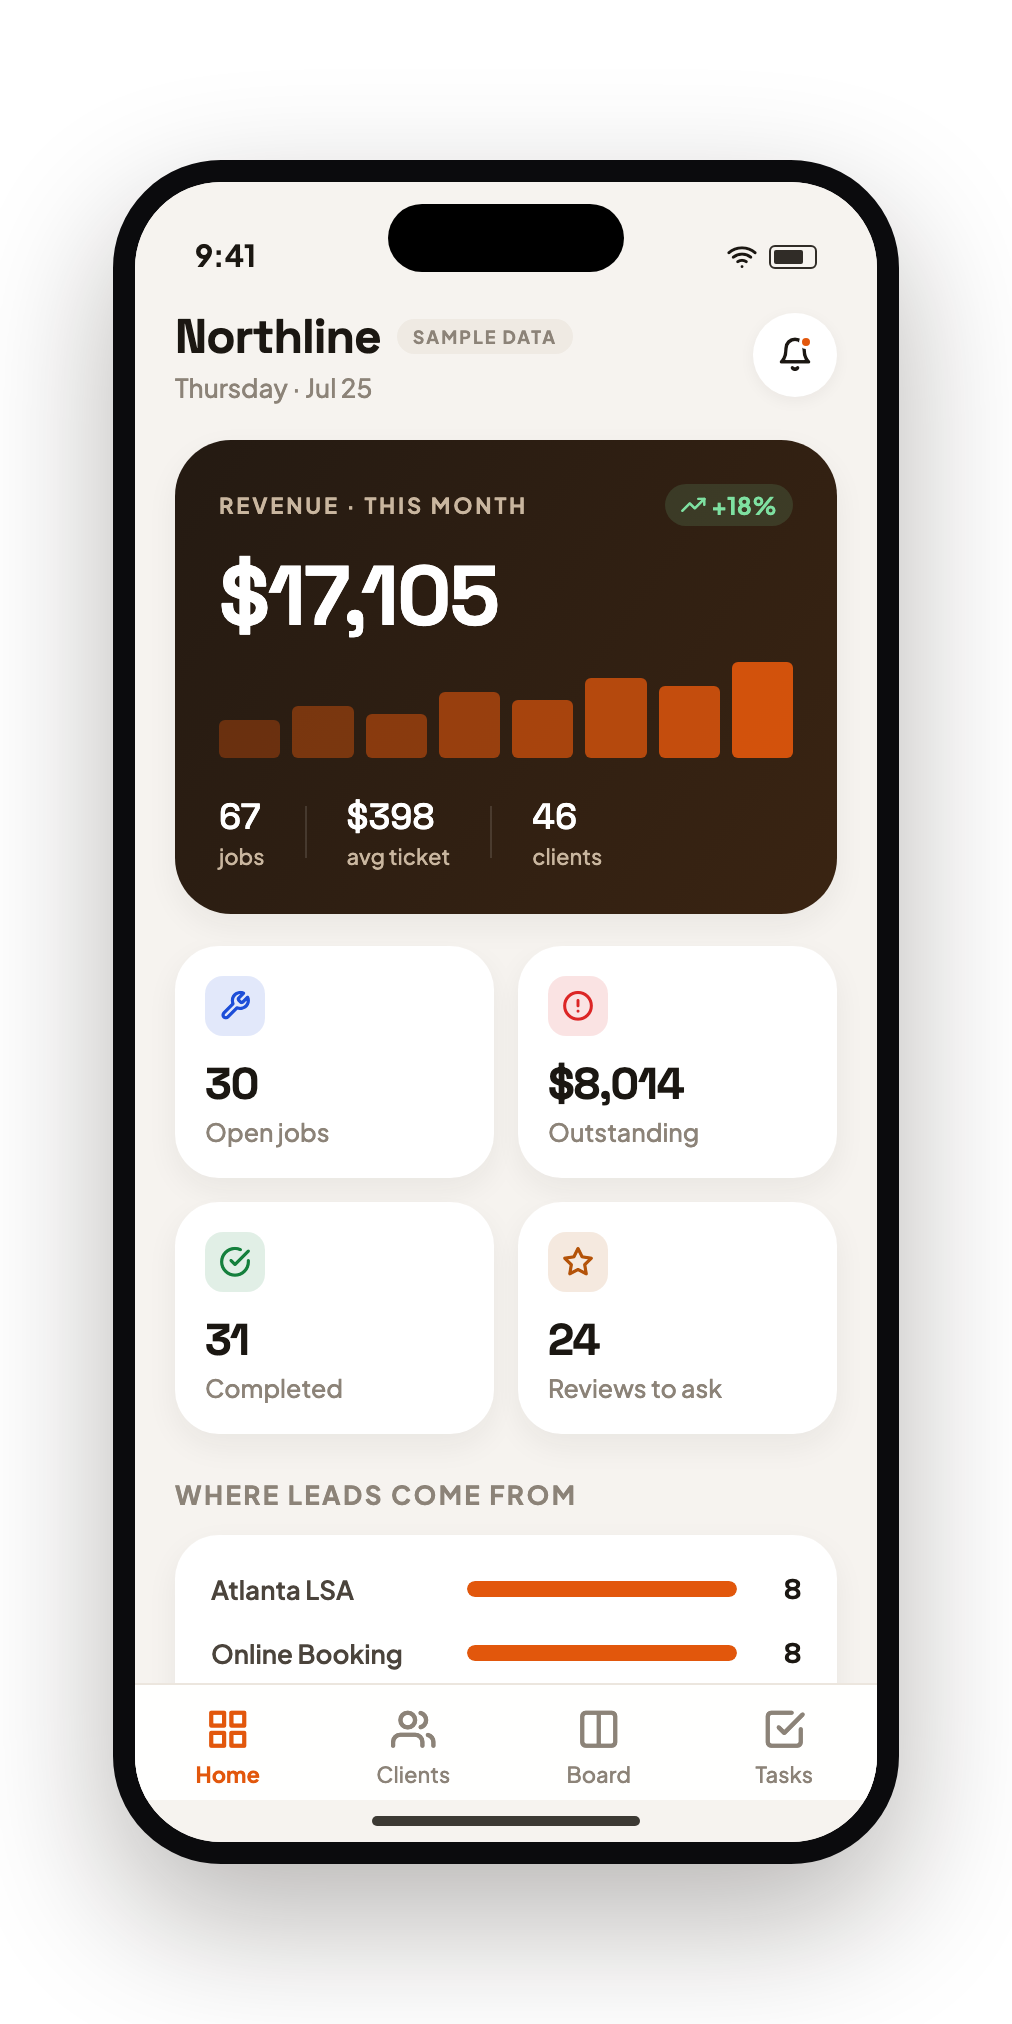
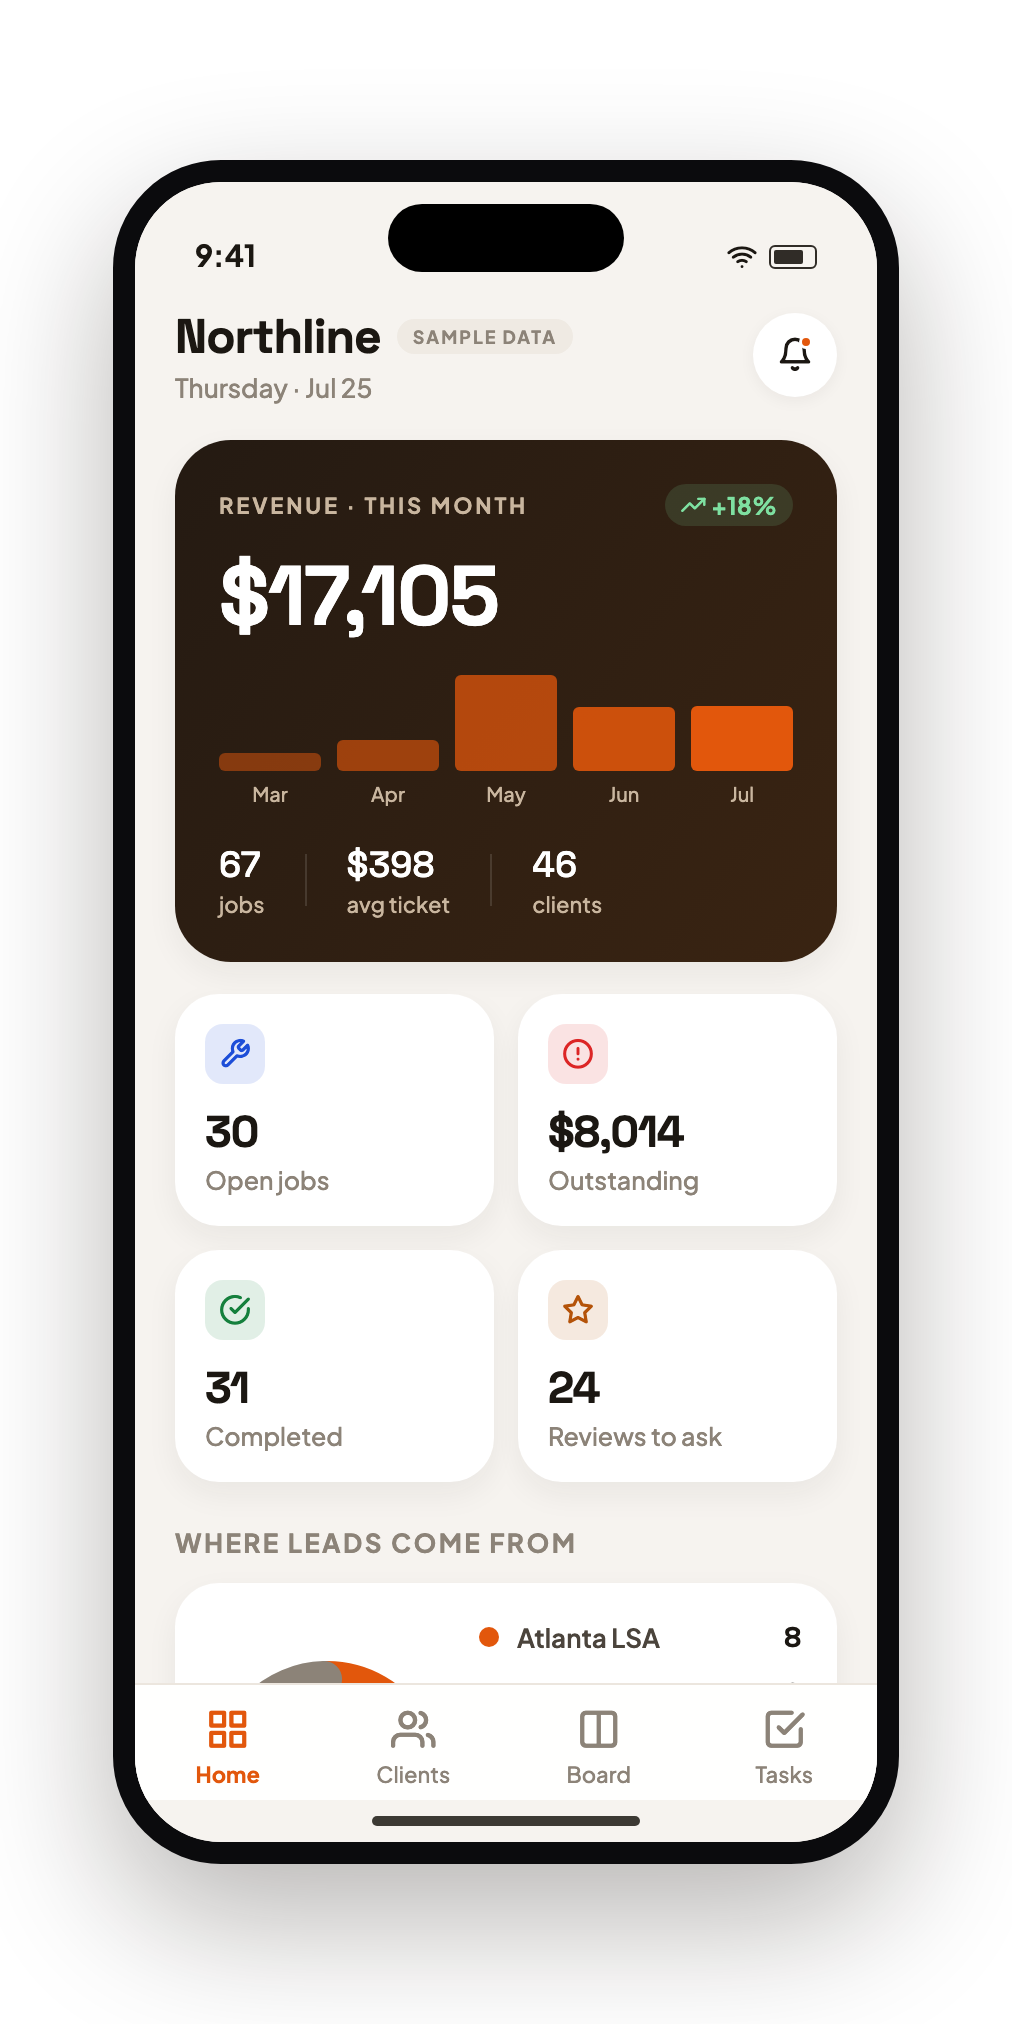
Feature #4a — real charts: data-driven monthly revenue bars + SVG lead-source donut (react-native-svg), revenueByMonth selector +3 tests (22 total)

Changed region(s): [[0.1532, 0.3113, 0.8271, 0.8404], [0.7658, 0.7782, 0.7964, 0.8404]]

diff --git a/client-hub/src/screens/Dashboard.tsx b/client-hub/src/screens/Dashboard.tsx
@@ -5,6 +5,10 @@ import { Feather } from '@expo/vector-icons';
 import { colors, font, radius, shadow, money } from '../theme';
 import { Card, SectionLabel } from '../ui';
 import { Seed, Task } from '../types';
+import { revenueByMonth } from '../selectors';
+import Donut from '../components/Donut';
+
+const LEAD_COLORS = ['#E2570C', '#1D4ED8', '#15803D', '#6D28D9', '#B45309', '#8C8378'];
 
 const taskMeta: Record<Task['type'], { icon: any; color: string; bg: string }> = {
   balance: { icon: 'dollar-sign', color: colors.danger, bg: colors.dangerSoft },
@@ -27,8 +31,18 @@ function Stat({ label, value, icon, tint }: { label: string; value: string; icon
 
 export default function Dashboard({ data, go, onOpenClient }: { data: Seed; go: (t: string) => void; onOpenClient: (id: string) => void }) {
   const { kpis, tasks } = data;
-  const maxLead = Math.max(...kpis.leadSources.map((l) => l[1]));
   const top = tasks.slice(0, 3);
+
+  const months = revenueByMonth(data.clients, 6);
+  const maxRev = Math.max(1, ...months.map((m) => m.value));
+
+  const leadTop = kpis.leadSources.slice(0, 5);
+  const leadOther = kpis.leadSources.slice(5).reduce((a, [, n]) => a + n, 0);
+  const totalLeads = kpis.leadSources.reduce((a, [, n]) => a + n, 0) || 1;
+  const donutData = [
+    ...leadTop.map(([, n], i) => ({ value: n, color: LEAD_COLORS[i] })),
+    ...(leadOther ? [{ value: leadOther, color: LEAD_COLORS[5] }] : []),
+  ];
 
   return (
     <ScrollView contentContainerStyle={styles.scroll} showsVerticalScrollIndicator={false}>
@@ -59,8 +73,11 @@ export default function Dashboard({ data, go, onOpenClient }: { data: Seed; go: 
         </View>
         <Text style={styles.heroValue}>{money(kpis.revenue)}</Text>
         <View style={styles.spark}>
-          {[38, 52, 44, 66, 58, 80, 72, 96].map((h, i) => (
-            <View key={i} style={[styles.sparkBar, { height: h * 0.5, opacity: 0.35 + i * 0.08 }]} />
+          {months.map((m, i) => (
+            <View key={i} style={styles.sparkCol}>
+              <View style={[styles.sparkBar, { height: 8 + (m.value / maxRev) * 40, opacity: 0.5 + (i / Math.max(1, months.length - 1)) * 0.5 }]} />
+              <Text style={styles.sparkLabel}>{m.label}</Text>
+            </View>
           ))}
         </View>
         <View style={styles.heroFoot}>
@@ -92,15 +109,26 @@ export default function Dashboard({ data, go, onOpenClient }: { data: Seed; go: 
       {/* Lead sources */}
       <SectionLabel>Where leads come from</SectionLabel>
       <Card style={styles.leadCard}>
-        {kpis.leadSources.slice(0, 5).map(([name, n], i) => (
-          <View key={name} style={[styles.leadRow, i > 0 && { marginTop: 14 }]}>
-            <Text style={styles.leadName} numberOfLines={1}>{name}</Text>
-            <View style={styles.leadTrack}>
-              <View style={[styles.leadFill, { width: `${(n / maxLead) * 100}%` }]} />
+        <Donut data={donutData} size={116} stroke={18}>
+          <Text style={styles.donutNum}>{totalLeads}</Text>
+          <Text style={styles.donutLbl}>leads</Text>
+        </Donut>
+        <View style={styles.legend}>
+          {leadTop.map(([name, n], i) => (
+            <View key={name} style={styles.legendRow}>
+              <View style={[styles.legendDot, { backgroundColor: LEAD_COLORS[i] }]} />
+              <Text style={styles.legendName} numberOfLines={1}>{name}</Text>
+              <Text style={styles.legendNum}>{n}</Text>
             </View>
-            <Text style={styles.leadNum}>{n}</Text>
-          </View>
-        ))}
+          ))}
+          {leadOther > 0 && (
+            <View style={styles.legendRow}>
+              <View style={[styles.legendDot, { backgroundColor: LEAD_COLORS[5] }]} />
+              <Text style={styles.legendName}>Other</Text>
+              <Text style={styles.legendNum}>{leadOther}</Text>
+            </View>
+          )}
+        </View>
       </Card>
 
       {/* Needs attention */}
@@ -148,8 +176,10 @@ const styles = StyleSheet.create({
   heroDelta: { flexDirection: 'row', alignItems: 'center', backgroundColor: 'rgba(126,224,161,0.14)', paddingHorizontal: 8, paddingVertical: 3, borderRadius: 999 },
   heroDeltaText: { fontFamily: font.bold, fontSize: 12, color: '#7EE0A1', marginLeft: 3 },
   heroValue: { fontFamily: font.display, fontSize: 42, color: '#FFF', marginTop: 8, letterSpacing: -1 },
-  spark: { flexDirection: 'row', alignItems: 'flex-end', gap: 6, height: 42, marginTop: 12 },
-  sparkBar: { flex: 1, backgroundColor: colors.accent, borderRadius: 3 },
+  spark: { flexDirection: 'row', alignItems: 'flex-end', gap: 8, height: 66, marginTop: 12 },
+  sparkCol: { flex: 1, alignItems: 'center', justifyContent: 'flex-end', gap: 5 },
+  sparkBar: { alignSelf: 'stretch', backgroundColor: colors.accent, borderRadius: 3 },
+  sparkLabel: { fontFamily: font.med, fontSize: 10, color: '#C9B69F' },
   heroFoot: { flexDirection: 'row', alignItems: 'center', marginTop: 18 },
   heroFootVal: { fontFamily: font.displayMed, fontSize: 18, color: '#FFF' },
   heroFootLbl: { fontFamily: font.med, fontSize: 11, color: '#C9B69F', marginTop: 1 },
@@ -161,12 +191,14 @@ const styles = StyleSheet.create({
   statValue: { fontFamily: font.display, fontSize: 22, color: colors.ink, letterSpacing: -0.5 },
   statLabel: { fontFamily: font.med, fontSize: 12.5, color: colors.muted, marginTop: 2 },
 
-  leadCard: { padding: 18, marginBottom: 22 },
-  leadRow: { flexDirection: 'row', alignItems: 'center' },
-  leadName: { fontFamily: font.semi, fontSize: 13, color: colors.inkSoft, width: 118 },
-  leadTrack: { flex: 1, height: 8, backgroundColor: colors.paperDeep, borderRadius: 4, marginHorizontal: 10, overflow: 'hidden' },
-  leadFill: { height: 8, backgroundColor: colors.accent, borderRadius: 4 },
-  leadNum: { fontFamily: font.display, fontSize: 14, color: colors.ink, width: 22, textAlign: 'right' },
+  leadCard: { padding: 18, marginBottom: 22, flexDirection: 'row', alignItems: 'center', gap: 18 },
+  donutNum: { fontFamily: font.display, fontSize: 22, color: colors.ink },
+  donutLbl: { fontFamily: font.med, fontSize: 11, color: colors.muted, marginTop: -2 },
+  legend: { flex: 1, gap: 10 },
+  legendRow: { flexDirection: 'row', alignItems: 'center' },
+  legendDot: { width: 10, height: 10, borderRadius: 5, marginRight: 9 },
+  legendName: { fontFamily: font.semi, fontSize: 13, color: colors.inkSoft, flex: 1 },
+  legendNum: { fontFamily: font.display, fontSize: 14, color: colors.ink, marginLeft: 8 },
 
   seeAll: { fontFamily: font.semi, fontSize: 13, color: colors.accent },
   taskRow: { flexDirection: 'row', alignItems: 'center', padding: 14, marginBottom: 10 },

diff --git a/client-hub/src/components/Donut.tsx b/client-hub/src/components/Donut.tsx
@@ -1,0 +1,58 @@
+import React from 'react';
+import { View } from 'react-native';
+import Svg, { Circle, G } from 'react-native-svg';
+
+export type DonutSlice = { value: number; color: string };
+
+/** Lightweight SVG donut chart. Segments are drawn as dash-offset arcs. */
+export default function Donut({
+  data,
+  size = 128,
+  stroke = 20,
+  children,
+}: {
+  data: DonutSlice[];
+  size?: number;
+  stroke?: number;
+  children?: React.ReactNode;
+}) {
+  const r = (size - stroke) / 2;
+  const c = 2 * Math.PI * r;
+  const total = data.reduce((a, d) => a + d.value, 0) || 1;
+  let acc = 0;
+
+  return (
+    <View style={{ width: size, height: size, alignItems: 'center', justifyContent: 'center' }}>
+      <Svg width={size} height={size}>
+        <G rotation={-90} origin={`${size / 2}, ${size / 2}`}>
+          {/* track */}
+          <Circle cx={size / 2} cy={size / 2} r={r} stroke="#00000010" strokeWidth={stroke} fill="none" />
+          {data.map((d, i) => {
+            const frac = d.value / total;
+            const dash = frac * c;
+            const gap = 2; // small separator
+            const offset = -acc * c;
+            acc += frac;
+            return (
+              <Circle
+                key={i}
+                cx={size / 2}
+                cy={size / 2}
+                r={r}
+                stroke={d.color}
+                strokeWidth={stroke}
+                strokeDasharray={`${Math.max(0, dash - gap)} ${c - Math.max(0, dash - gap)}`}
+                strokeDashoffset={offset}
+                strokeLinecap="round"
+                fill="none"
+              />
+            );
+          })}
+        </G>
+      </Svg>
+      {children ? (
+        <View style={{ position: 'absolute', alignItems: 'center', justifyContent: 'center' }}>{children}</View>
+      ) : null}
+    </View>
+  );
+}

diff --git a/client-hub/src/__tests__/selectors.test.ts b/client-hub/src/__tests__/selectors.test.ts
@@ -1,4 +1,4 @@
-import { filterClients, sortByPriority, groupTasks, clientsByStage, computeKpis } from '../selectors';
+import { filterClients, sortByPriority, groupTasks, clientsByStage, computeKpis, revenueByMonth } from '../selectors';
 import { Client, Job, Task } from '../types';
 import seed from '../data/seed.json';
 import { Seed } from '../types';
@@ -102,6 +102,32 @@ describe('computeKpis', () => {
   });
   it('ranks lead sources by count', () => {
     expect(kpis.leadSources[0]).toEqual(['Tampa LSA', 2]);
+  });
+});
+
+describe('revenueByMonth', () => {
+  const job = (completedDate: string | null, amount: number): Job => ({
+    id: 'j', clientId: 'c', appliance: '', brand: '', description: '', status: '', stage: '',
+    stageOrder: 3, amount, outstanding: 0, tech: null, scheduledDate: null, completedDate,
+    createdDate: '', rating: null,
+  });
+  const clients: Client[] = [
+    mk({ id: 'c1', jobs: [job('2026-05-10', 200), job('2026-05-22', 100)] }),
+    mk({ id: 'c2', jobs: [job('2026-07-01', 300), job(null, 999), job('2026-07-15', 0)] }),
+  ];
+  it('sums revenue per month, chronological, with month labels', () => {
+    expect(revenueByMonth(clients)).toEqual([
+      { label: 'May', value: 300 },
+      { label: 'Jul', value: 300 },
+    ]);
+  });
+  it('ignores jobs with no completed date or zero amount', () => {
+    const r = revenueByMonth(clients);
+    expect(r.reduce((a, m) => a + m.value, 0)).toBe(600);
+  });
+  it('keeps only the most recent n months', () => {
+    const many: Client[] = [mk({ jobs: ['2026-01', '2026-02', '2026-03', '2026-04'].map((m) => job(`${m}-05`, 50)) })];
+    expect(revenueByMonth(many, 2).map((m) => m.label)).toEqual(['Mar', 'Apr']);
   });
 });
 

diff --git a/client-hub/src/selectors.ts b/client-hub/src/selectors.ts
@@ -21,6 +21,22 @@ export function computeKpis(clients: Client[], tasks: Task[]): Kpis {
   };
 }
 
+const MONTHS = ['Jan', 'Feb', 'Mar', 'Apr', 'May', 'Jun', 'Jul', 'Aug', 'Sep', 'Oct', 'Nov', 'Dec'];
+
+/** Completed-job revenue grouped by calendar month, most recent `n` months, chronological. */
+export function revenueByMonth(clients: Client[], n = 6): { label: string; value: number }[] {
+  const byMonth = new Map<string, number>();
+  for (const c of clients) {
+    for (const j of c.jobs) {
+      if (!j.completedDate || !j.amount) continue;
+      const key = j.completedDate.slice(0, 7); // YYYY-MM
+      byMonth.set(key, (byMonth.get(key) || 0) + j.amount);
+    }
+  }
+  const keys = [...byMonth.keys()].sort().slice(-n);
+  return keys.map((k) => ({ label: MONTHS[parseInt(k.slice(5, 7), 10) - 1], value: byMonth.get(k) || 0 }));
+}
+
 export const CLIENT_FILTERS = ['All', 'New Lead', 'Scheduled', 'In Progress', 'Completed', 'Canceled'] as const;
 export type ClientFilter = (typeof CLIENT_FILTERS)[number];
 
